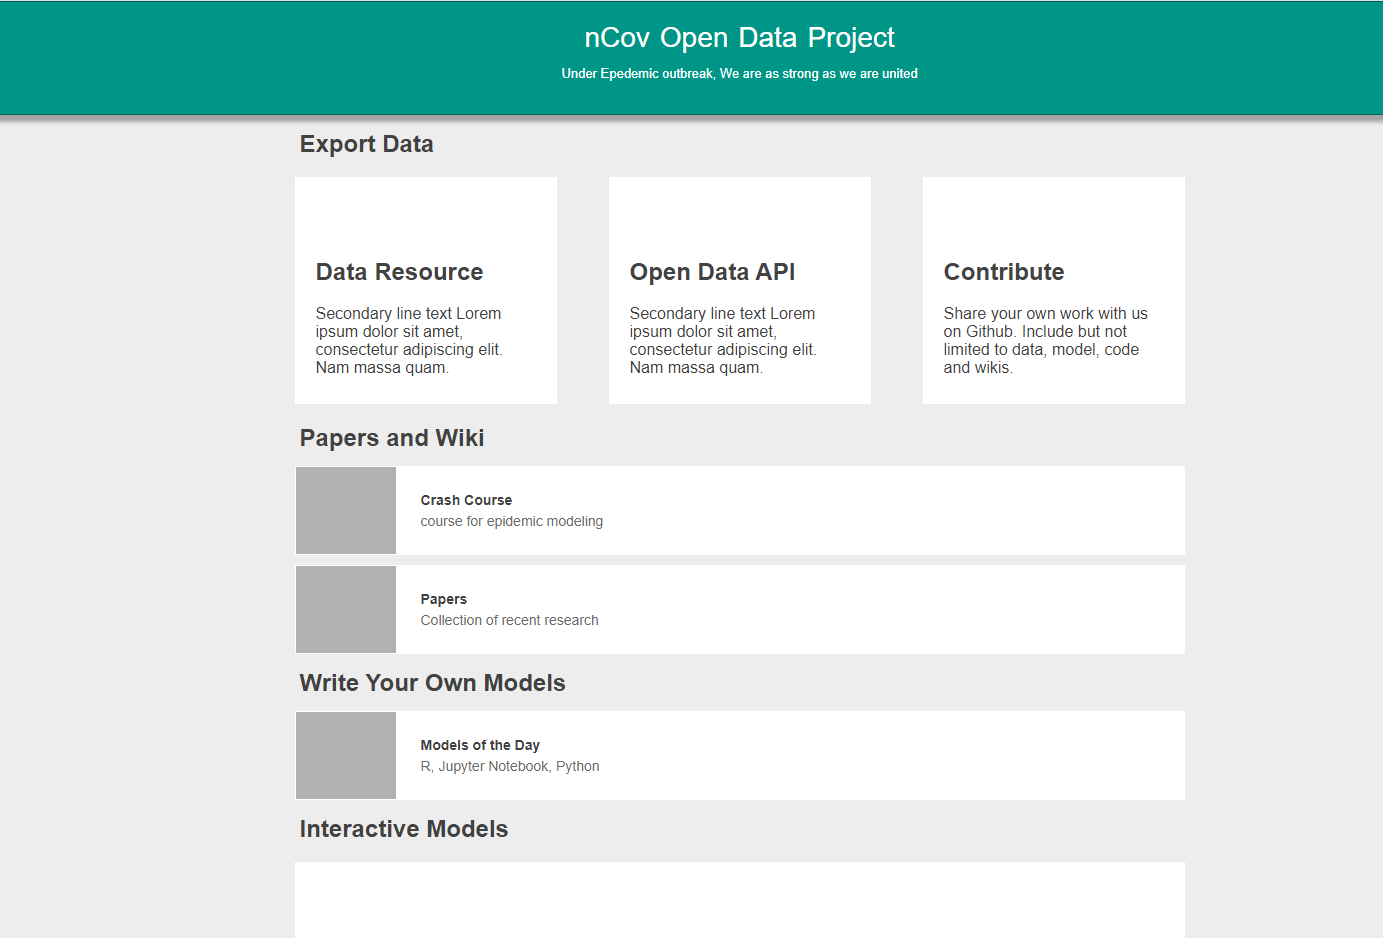
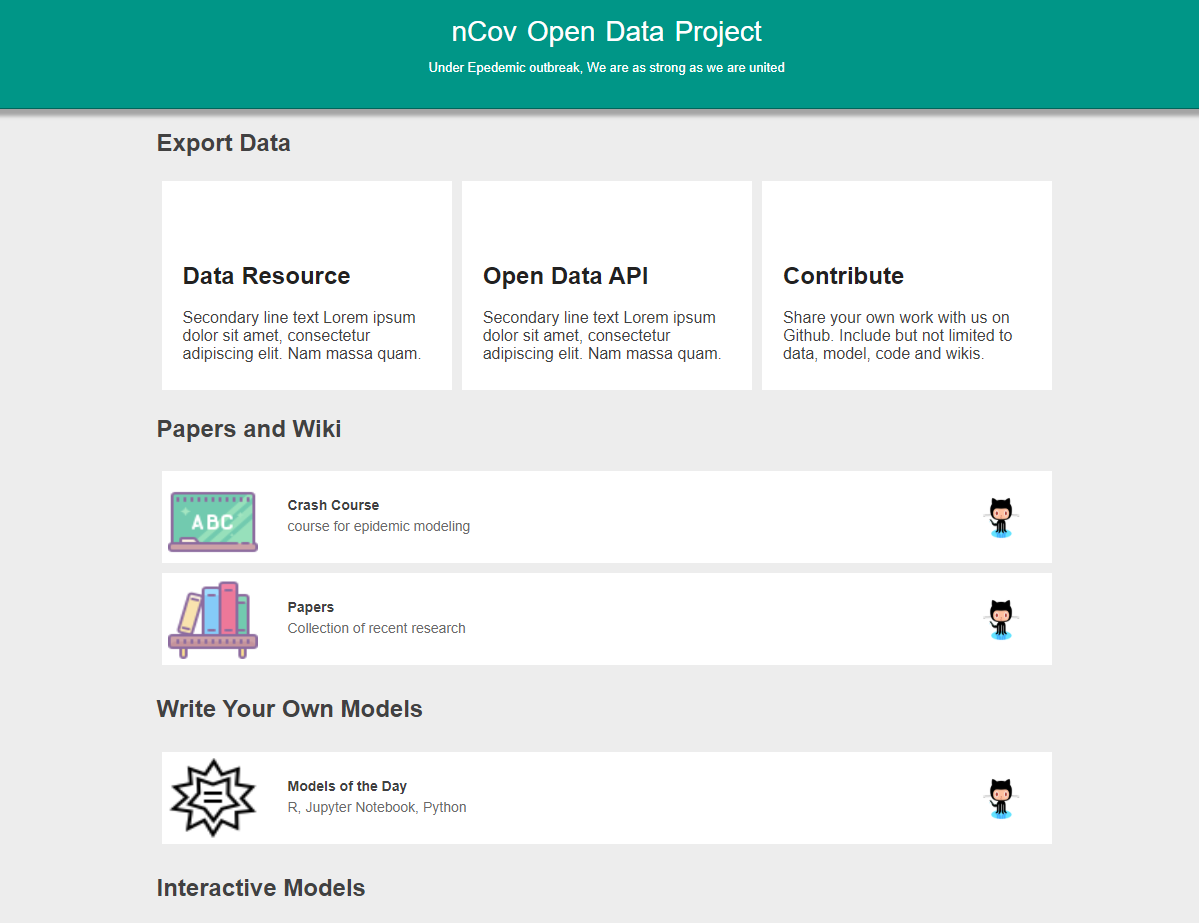
图标与详情页

diff --git a/theme/src/views/Home.vue b/theme/src/views/Home.vue
@@ -5,18 +5,18 @@
 
     <Split text="Export Data"></Split>
     <div class="export-data">
-      <Piece title="Data Resource" content="Secondary line text Lorem ipsum dolor sit amet, consectetur adipiscing elit. Nam massa quam."></Piece>
-      <Piece title="Open Data API" content="Secondary line text Lorem ipsum dolor sit amet, consectetur adipiscing elit. Nam massa quam."></Piece>  
-      <Piece title="Contribute" content="Share your own work with us on Github. Include but not limited to data, model, code and wikis."></Piece>    
+      <Piece to="data-resource" title="Data Resource" content="Secondary line text Lorem ipsum dolor sit amet, consectetur adipiscing elit. Nam massa quam."></Piece>
+      <Piece to="open-data-api" title="Open Data API" content="Secondary line text Lorem ipsum dolor sit amet, consectetur adipiscing elit. Nam massa quam."></Piece>  
+      <Piece to="contribute" title="Contribute" content="Share your own work with us on Github. Include but not limited to data, model, code and wikis."></Piece>    
     </div>
   
     <Split text="Papers and Wiki"></Split>
     <div class="center">
-        <Bar title="Crash Course" content="course for epidemic modeling">
+        <Bar to="crash-course" title="Crash Course" content="course for epidemic modeling">
           <template v-slot:cover><img class="bar-cover" src="../assets/crash-course.png"/></template>
         </Bar>
         
-        <Bar title="Papers" content="Collection of recent research">
+        <Bar to="papers" title="Papers" content="Collection of recent research">
           <template v-slot:cover><img class="bar-cover" src="../assets/paper.png" /></template>
         </Bar>
     </div>
@@ -24,7 +24,7 @@
 
     <Split text="Write Your Own Models"></Split>
     <div class="center">
-      <Bar title="Models of the Day" content="R, Jupyter Notebook, Python">
+      <Bar to="models" title="Models of the Day" content="R, Jupyter Notebook, Python">
         <template v-slot:cover><img class="bar-cover" src="../assets/math.png"/></template>
       </Bar>
     </div>
@@ -55,6 +55,12 @@ import Bar from "../components/Bar.vue";
 
 export default {
   name: "Home",
+  methods:{
+    jump(e,a){
+      console.log(e,a)
+    }
+
+  },
   components: {
     Banner,
     Split,

diff --git a/theme/src/views/Refererence.vue b/theme/src/views/Refererence.vue
@@ -1,0 +1,73 @@
+<template>
+    <div class="refererence-page">
+        <Banner></Banner>
+        <Split :text="title">
+            <template v-slot:githublink>
+                <img class="link-img" src="../assets/github-link.png"/>
+                <a class="link-code" href="#">link to code</a>
+            </template>
+        </Split>
+        <article class="min-height10">
+            <section class="conter min-height6 bg-white max-with9"></section>
+        </article>
+        <Footer></Footer>
+    </div>
+</template>
+
+
+<script>
+import Banner from "../components/Banner.vue";
+import Split from "../components/Split.vue";
+import Footer from "../components/Footer.vue";
+
+export default {
+    name:"Refererence",
+    data(){
+        return {
+            title:"Title"
+        }
+    },
+    components:{
+        Banner,
+        Split,
+        Footer,
+    }
+}
+</script>
+
+<style scoped>
+.refererence-page{
+    background-color: #ededed;
+}
+.min-height10{
+    min-height: 800px;
+}
+.conter{
+    margin: auto;
+}
+.min-height6{
+    min-height: 600px;
+}
+.bg-white{
+    background-color: #fff;
+}
+.max-with9{
+    max-width: 900px;
+}
+.link-code{
+    display: inline-block;
+    text-decoration: none;
+    font-size: 16px;
+    margin: 25px 10px;
+    color: rgb(92, 92, 92);
+}
+.link-code:hover{
+    color: rgb(58, 119, 211);
+}
+.link-img{
+    width: 40px;
+    height: 40px;
+    display: inline-block;
+    margin: 10px 0px;
+}
+</style>

diff --git a/theme/src/router/index.js b/theme/src/router/index.js
@@ -1,6 +1,8 @@
 import Vue from 'vue'
 import VueRouter from 'vue-router'
 import Home from '../views/Home.vue'
+import Content from '../views/Content.vue'
+import Refererence from '../views/Refererence.vue'
 
 Vue.use(VueRouter)
 
@@ -9,13 +11,46 @@ const routes = [
     path: '/',
     name: 'Home',
     component: Home
+  },
+  {
+    path: '/data-resource',
+    name: 'DataResource',
+    component: Content
+  },
+  {
+    path: '/open-data-api',
+    name: 'OpenDataAPI',
+    component: Content
+  },
+  {
+    path: '/contribute',
+    name: 'Contribute',
+    component: Content
+  },
+  {
+    path: '/crash-course',
+    name: 'CrashCourse',
+    component: Refererence
+  },
+  {
+    path: '/papers',
+    name: 'Papers',
+    component: Refererence
+  },
+  {
+    path: '/models',
+    name: 'Models',
+    component: Refererence
   }
 ]
 
 const router = new VueRouter({
   mode: 'history',
   base: process.env.BASE_URL,
-  routes
+  routes,
+  scrollBehavior () {
+    return { x: 0, y: 0 }
+  }
 })
 
 export default router

diff --git a/theme/src/components/Bar.vue b/theme/src/components/Bar.vue
@@ -4,7 +4,9 @@
             <slot name="cover"></slot>
         </div>
         <div class="bar-text">
-            <h4>{{ title }}</h4>
+            <router-link :to="to">
+                <h4>{{ title }}</h4>
+            </router-link>
             <p>{{ content }}</p>
         </div>
         <img class="bar-log" src="../assets/github-logo.png"/>
@@ -14,7 +16,7 @@
 
 <script>
 export default {
-    props:["title", "content"]
+    props:["title", "content", "to"]
 }
 </script>
 
@@ -29,7 +31,6 @@ export default {
     border: 1px solid rgb(255, 255, 255);
 }
 .bar:hover{
-    cursor: pointer;
     border: 1px solid rgb(128, 50, 50);
 }
 
@@ -38,10 +39,17 @@ export default {
     padding: 20px 20px;
     
 }
-.bar-text > h4{
+.bar-text > a > h4{
     margin: 5px;
     color: rgb(65, 65, 65);
 }
+.bar-text > a{
+    text-decoration: none;
+}
+.bar-text > a:hover{
+    text-decoration: underline rgb(34, 22, 136);
+}
+
 .bar-text > p{
     margin: 5px;
     color: rgb(105, 105, 105);

diff --git a/theme/src/views/Content.vue b/theme/src/views/Content.vue
@@ -1,0 +1,52 @@
+<template>
+    <div class="content-page">
+        <Banner></Banner>
+        <Split :text="title"></Split>
+        <article class="min-height10">
+            <section class="conter min-height6 bg-white max-with9"></section>
+        </article>
+        <Footer></Footer>
+    </div>
+</template>
+
+
+<script>
+import Banner from "../components/Banner.vue";
+import Split from "../components/Split.vue";
+import Footer from "../components/Footer.vue";
+
+export default {
+    name:"Content",
+    data(){
+        return {
+            title:"Title"
+        }
+    },
+    components:{
+        Banner,
+        Split,
+        Footer,
+    }
+}
+</script>
+
+<style scoped>
+.content-page{
+    background-color: #ededed;
+}
+.min-height10{
+    min-height: 800px;
+}
+.conter{
+    margin: auto;
+}
+.min-height6{
+    min-height: 600px;
+}
+.bg-white{
+    background-color: #fff;
+}
+.max-with9{
+    max-width: 900px;
+}
+</style>

diff --git a/theme/src/components/Piece.vue b/theme/src/components/Piece.vue
@@ -1,6 +1,8 @@
 <template>
     <div class="piece">
-        <h2>{{ title }}</h2>
+        <router-link :to="to">
+            <h2>{{ title }}</h2>
+        </router-link>
         <p>{{ content }}</p>    
     </div>    
 </template>
@@ -8,7 +10,7 @@
 
 <script>
 export default {
-    props:["title","content"]
+    props:["title","content","to"]
 }
 </script>
 
@@ -20,8 +22,15 @@ export default {
     padding: 60px 20px 10px 20px;
     margin: 5px;
 }
+.piece >a{
+    text-decoration: none;
+    color: rgb(34, 33, 33);
+}
+.piece >a:hover{
+    text-decoration: underline rgb(34, 22, 136);
+    color: rgb(43, 76, 226);
+}
 .piece:hover{
-    cursor: pointer;
     border: 1px solid rgb(13, 176, 197);
 }
 .piece > h2{

diff --git a/theme/src/components/Split.vue b/theme/src/components/Split.vue
@@ -1,6 +1,9 @@
 <template>
     <div class="split">
-        <h2>{{ text }}</h2>    
+        <h2>{{ text }}</h2>
+        <div style="display:flex">
+            <slot name="githublink"></slot>
+        </div>    
     </div>    
 </template>
 
@@ -13,10 +16,13 @@ export default {
 
 
 <style lang="css" scoped>
-.split > h2 {
-    margin: 15px auto;
+.split{
     max-width: 900px;
-    text-indent: 10px;
+    margin: auto;
+    display: flex;
+    justify-content: space-between;
+}
+.split > h2 {
     color: rgb(65, 65, 65);
 }
 </style>
